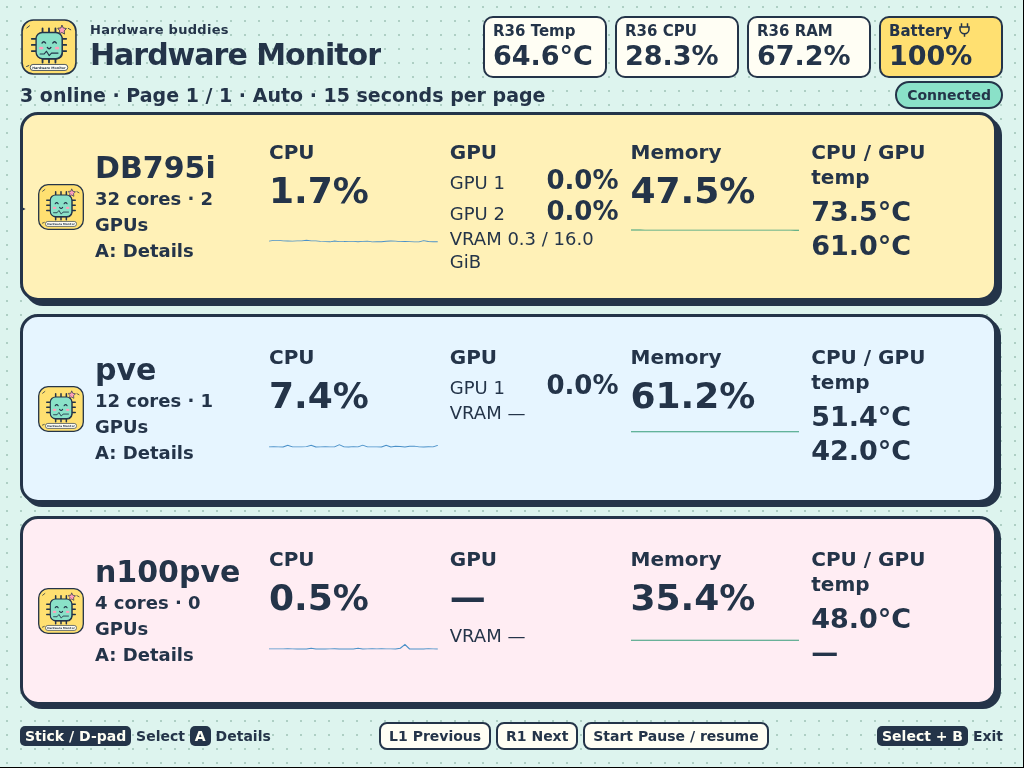
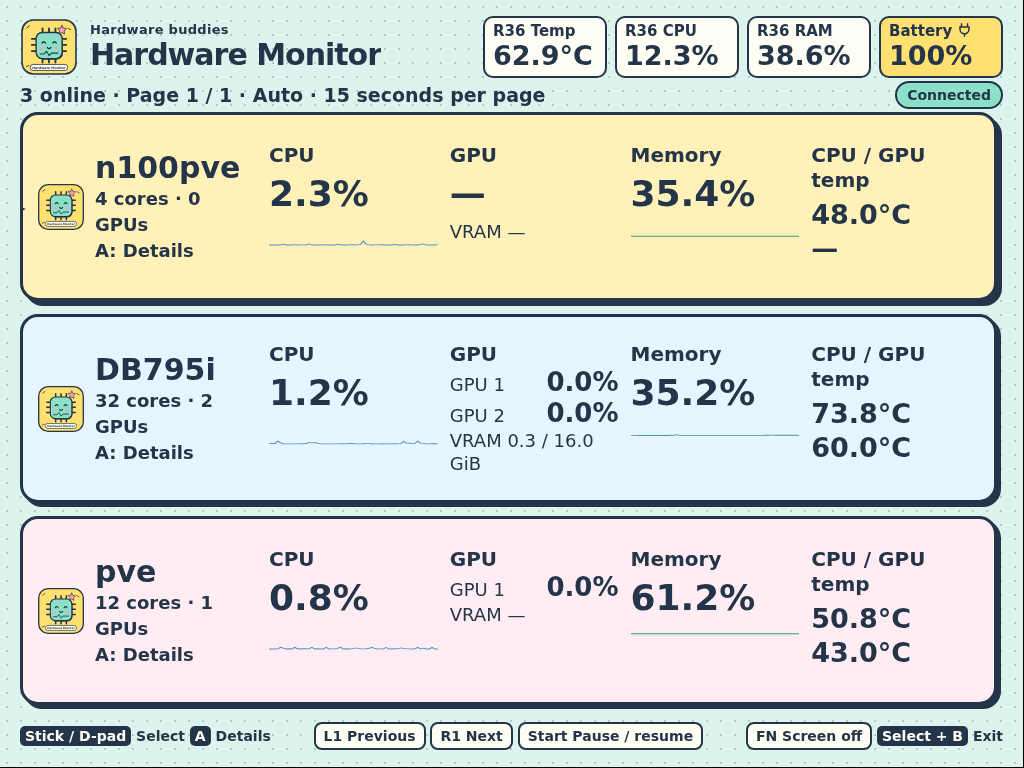
feat: add FN display sleep with DPMS and dim startup brightness

diff --git a/browser/monitor.html b/browser/monitor.html
@@ -109,7 +109,7 @@ header h1,body.device-summary h1{max-width:360px;font-size:30px}
 </style>
 <header><img src="/assets/hardware-buddy.svg" alt="Smiling chip mascot"><div><div class="brand-note">Hardware buddies</div><h1 id="title">Hardware Monitor</h1></div><aside id="device-status" aria-label="R36 handheld status"><div><small>R36 Temp</small><strong id="local-temp">—</strong></div><div><small>R36 CPU</small><strong id="local-cpu">—</strong></div><div><small>R36 RAM</small><strong id="local-memory">—</strong></div><div id="local-battery-box"><small>Battery <span id="charge-icon"></span></small><strong id="local-battery">—</strong></div></aside><span id="connection">Connecting…</span></header>
 <div id="summary"></div><main id="main"></main>
-<footer><span id="help"><kbd>Stick / D-pad</kbd> Select <kbd>A</kbd> Details <kbd>B</kbd> Back</span><span><button onclick="control('previous')">L1 Previous</button> <button onclick="control('next')">R1 Next</button> <button onclick="control('toggle')">Start Pause / resume</button></span><span><kbd>Select + B</kbd> Exit</span></footer>
+<footer><span id="help"><kbd>Stick / D-pad</kbd> Select <kbd>A</kbd> Details <kbd>B</kbd> Back</span><span><button onclick="control('previous')">L1 Previous</button> <button onclick="control('next')">R1 Next</button> <button onclick="control('toggle')">Start Pause / resume</button></span><span><button id="screen-button" onclick="control('screen')" aria-label="Turn screen off; press FN to wake">FN Screen off</button> <kbd>Select + B</kbd> Exit</span></footer>
 <script>
 const esc=v=>String(v??'—').replace(/[&<>"']/g,c=>({'&':'&amp;','<':'&lt;','>':'&gt;','"':'&quot;',"'":'&#39;'}[c]));
 const numeric=v=>typeof v==='number'&&Number.isFinite(v);
@@ -184,6 +184,7 @@ function render(s){
  document.getElementById('local-battery-box').setAttribute('aria-label','R36 battery: '+label);
  document.getElementById('charge-icon').innerHTML=charging?'<svg viewBox="0 0 16 20" role="img" aria-label="Charging"><path d="M9 0 1 11h6l-1 9 9-12H9z" fill="currentColor"/></svg>':plugged?'<svg viewBox="0 0 20 20" role="img" aria-label="'+label+'"><path d="M6 1v5m8-5v5M4 6h12v3a6 6 0 0 1-12 0zM10 15v4" fill="none" stroke="currentColor" stroke-width="2"/></svg>':'';
 
+ document.getElementById('screen-button').textContent=s.screen_off?'FN Wake':'FN Screen off';
  document.body.classList.toggle('device-summary',Boolean(s.detail&&!s.focus));
  document.getElementById('connection').textContent=s.connection;
  document.getElementById('connection').className=s.connection==='Connected'?'':'error';
@@ -203,6 +204,6 @@ async function update(){if(updating)return;updating=true;try{let r=await fetch('
 async function control(action){await fetch('/control',{method:'POST',headers:{'Content-Type':'application/json'},body:JSON.stringify({action})})}
 document.getElementById('main').addEventListener('click',e=>{let panel=e.target.closest('[data-section]');if(panel)control('focus:'+panel.dataset.section)});
 const events=new EventSource('/events');events.onmessage=e=>render(JSON.parse(e.data));events.onerror=lost;
-document.addEventListener('keydown',e=>{const actions={ArrowUp:'up',ArrowDown:'down',ArrowLeft:'left',ArrowRight:'right',Enter:'detail',Backspace:'back',Escape:'back',PageUp:'previous',PageDown:'next',' ':'toggle'};if(actions[e.key]){e.preventDefault();const panel=e.target.closest('[data-section]');control(e.key==='Enter'&&panel?'focus:'+panel.dataset.section:actions[e.key])}});
+document.addEventListener('keydown',e=>{if(e.target.closest('button')&&(e.key==='Enter'||e.key===' '))return;const actions={ArrowUp:'up',ArrowDown:'down',ArrowLeft:'left',ArrowRight:'right',Enter:'detail',Backspace:'back',Escape:'back',PageUp:'previous',PageDown:'next',' ':'toggle',f:'screen',F:'screen'};if(actions[e.key]){e.preventDefault();const panel=e.target.closest('[data-section]');control(e.key==='Enter'&&panel?'focus:'+panel.dataset.section:actions[e.key])}});
 update();
 </script></html>

diff --git a/browser/monitor.py b/browser/monitor.py
@@ -5,7 +5,9 @@ import json
 import math
 import os
 import select
+import signal
 import struct
+import subprocess
 import threading
 import time
 from collections import deque
@@ -14,7 +16,7 @@ from pathlib import Path
 
 ROOT = Path(__file__).resolve().parent
 SECTIONS = ('cpu', 'gpu', 'memory', 'network', 'disks', 'temperatures', 'history')
-BUTTONS = {305: 'detail', 304: 'back', 705: 'toggle', 310: 'previous',
+BUTTONS = {708: 'screen', 305: 'detail', 304: 'back', 705: 'toggle', 310: 'previous',
            311: 'next', 544: 'up', 545: 'down', 546: 'left', 547: 'right'}
 
 
@@ -115,6 +117,53 @@ class LocalStatus:
         return data
 
 
+class Screen:
+    """Manual backlight toggle; retain the user's game-menu brightness on exit."""
+    def __init__(self, directory=Path('/sys/class/backlight'), brightness=16):
+        self.path = next(iter(sorted(Path(directory).glob('*/brightness'))), None)
+        if self.path is None:
+            raise OSError('No backlight brightness control found')
+        self.original = int(self.path.read_text())
+        maximum = int(self.path.with_name('max_brightness').read_text())
+        # ponytail: visibility differs per panel; tune R36_MONITOR_BRIGHTNESS if 16 is too dim.
+        self.dim = max(1, min(maximum, int(brightness)))
+        self.asleep = False
+        self.dpms_off = False
+
+    @staticmethod
+    def power(mode):
+        try:
+            subprocess.run(['xset', 'dpms', 'force', mode], check=True, timeout=3,
+                           stdout=subprocess.DEVNULL, stderr=subprocess.DEVNULL)
+        except (OSError, subprocess.SubprocessError) as error:
+            raise OSError('DPMS display power command failed') from error
+
+    def enter(self):
+        self.path.write_text(str(self.dim))
+
+    def toggle(self):
+        if self.asleep:
+            if self.dpms_off:
+                self.power('on')
+            self.path.write_text(str(self.dim))
+            self.dpms_off = self.asleep = False
+        else:
+            self.path.write_text('0')
+            try:
+                self.power('off')
+                self.dpms_off = True
+            except OSError:
+                print('DPMS unavailable; screen uses backlight-only sleep.', flush=True)
+            self.asleep = True
+
+    def restore(self):
+        try:
+            if self.dpms_off:
+                self.power('on')
+        finally:
+            self.path.write_text(str(self.original))
+
+
 class Monitor:
     def __init__(self):
         self.lock = threading.RLock()
@@ -132,6 +181,7 @@ class Monitor:
         self.connection = 'Not configured'
         self.bad_messages = 0
         self.device = LocalStatus()
+        self.screen = None
 
     def receive(self, topic, payload, retained=False, now=None):
         now = time.monotonic() if now is None else now
@@ -193,6 +243,18 @@ class Monitor:
     def action(self, action, now=None):
         now = time.monotonic() if now is None else now
         with self.lock:
+            if action == 'screen':
+                if self.screen is not None:
+                    try:
+                        self.screen.toggle()
+                    except OSError as error:
+                        print(str(error), flush=True)
+                        return  # Keep FN available to retry a failed wake command.
+                    self.version += 1
+                    self.changed.notify_all()
+                return
+            if self.screen is not None and self.screen.asleep:
+                return
             self.tick(now)
             order = list(self.hosts)
             if action in ('left', 'right') and (self.detail is None or self.focus is not None):
@@ -259,6 +321,7 @@ class Monitor:
             page = order.index(self.selected) // 3 if order else 0
             visible = [self.detail] if self.detail else order[page * 3:page * 3 + 3]
             return {'device': self.device.sample(), 'connection': self.connection, 'paused': self.paused, 'detail': self.detail,
+                    'screen_off': bool(self.screen and self.screen.asleep),
                     'focus': self.focus, 'panel': SECTIONS[self.panel], 'item_page': self.item_page,
                     'selected': self.selected, 'page': page + 1, 'pages': max(1, (len(order) + 2) // 3),
                     'count': len(order), 'bad_messages': self.bad_messages,
@@ -357,6 +420,8 @@ def controls(state, server):
                         limits[axis], initial[axis] = (low, high), value
                 except OSError:
                     pass
+            # Own the gamepad while monitoring so FN combinations cannot change global brightness.
+            fcntl.ioctl(stream.fileno(), 0x40044590, 1)  # EVIOCGRAB; released when the stream closes.
             stick = StickNavigation(limits)
             for axis, value in initial.items():
                 stick.update(axis, value)
@@ -459,13 +524,20 @@ def handler(state):
 
 
 if __name__ == '__main__':
+    def stop(*_):
+        raise SystemExit(0)
+    signal.signal(signal.SIGTERM, stop)
     state = Monitor()
-    client = mqtt_start(state)
+    state.screen = Screen(brightness=os.environ.get('R36_MONITOR_BRIGHTNESS', '16'))
+    client = None
     try:
+        state.screen.enter()
+        client = mqtt_start(state)
         with ThreadingHTTPServer(('127.0.0.1', 8766), handler(state)) as server:
             threading.Thread(target=controls, args=(state, server), daemon=True).start()
             server.serve_forever()
     finally:
+        state.screen.restore()
         if client:
             client.disconnect()
             client.loop_stop()

diff --git a/browser/test_monitor.py b/browser/test_monitor.py
@@ -155,3 +155,37 @@ assert state.snapshot()['item_page'] == 0 and state.focus == 'memory'
 state.action('down')
 assert state.snapshot()['item_page'] == 0
 print('PASS: metric item paging, reverse paging, reset when changing metric, no scrolling')
+
+# The display goes completely dark only on request, then restores the dim level.
+from monitor import Screen, BUTTONS
+from unittest.mock import patch
+with TemporaryDirectory() as directory, patch('monitor.subprocess.run') as dpms:
+    panel=Path(directory)/'panel';panel.mkdir()
+    (panel/'brightness').write_text('200');(panel/'max_brightness').write_text('255')
+    screen=Screen(directory,16);screen.enter()
+    assert (panel/'brightness').read_text()=='16'
+    state=Monitor();state.screen=screen
+    assert BUTTONS[708]=='screen' and 307 not in BUTTONS
+    state.action('screen')
+    assert state.snapshot()['screen_off'] and (panel/'brightness').read_text()=='0'
+    version=state.version;state.action('down');assert state.version==version
+    state.action('screen')
+    assert not state.snapshot()['screen_off'] and (panel/'brightness').read_text()=='16'
+    assert [call.args[0][-1] for call in dpms.call_args_list]==['off','on']
+    state.action('screen');dpms.side_effect=OSError('display unavailable')
+    state.action('screen');assert screen.asleep  # A failed wake stays retryable.
+    dpms.side_effect=None;state.action('screen');assert not screen.asleep
+    dpms.side_effect=OSError('DPMS unsupported');state.action('screen')
+    assert screen.asleep and not screen.dpms_off
+    state.action('screen');assert not screen.asleep
+    dpms.side_effect=None
+    state.action('screen');screen.restore()
+    assert dpms.call_args.args[0][-1]=='on' and (panel/'brightness').read_text()=='200'
+    (panel/'brightness').write_text('0');dpms.side_effect=OSError('X already closed')
+    try:screen.restore()
+    except OSError:pass
+    else:raise AssertionError('Expected DPMS error')
+    assert (panel/'brightness').read_text()=='200'
+    dpms.side_effect=None
+    assert Screen(directory,0).dim==1 and Screen(directory,999).dim==255
+print('PASS: FN sleep/wake, nonzero dim brightness, sleeping input ignored, exit brightness restored')

diff --git a/browser/test_awake.py b/browser/test_awake.py
@@ -6,11 +6,13 @@ from pathlib import Path
 settings = subprocess.check_output(['xset', 'q'], env=dict(__import__('os').environ, DISPLAY=':0'), text=True)
 assert re.search(r'timeout:\s+0\s+cycle:', settings), 'Screen saver timer enabled'
 assert 'prefer blanking:  no' in settings, 'Blanking enabled'
-assert 'DPMS is Disabled' in settings, 'Display power saving enabled'
+assert 'DPMS is Enabled' in settings, 'Manual DPMS unavailable'
+assert re.search(r'Standby:\s+0\s+Suspend:\s+0\s+Off:\s+0', settings), 'Automatic DPMS timer enabled'
+assert 'Monitor is On' in settings, 'Monitor is manually sleeping'
 locks = subprocess.check_output(['systemd-inhibit', '--list', '--no-pager'], text=True)
 assert 'HardwareMonitor' in locks and 'sleep' in locks and 'idle' in locks, 'Monitoring sleep/idle inhibitor missing'
 backlight = Path('/sys/class/backlight/backlight')
 assert int((backlight / 'brightness').read_text()) > 0, 'Backlight is off'
 if (backlight / 'bl_power').exists():
     assert int((backlight / 'bl_power').read_text()) == 0, 'Backlight power saving enabled'
-print('PASS: no screen saver, no blanking, DPMS disabled, sleep/idle inhibited, backlight on')
+print('PASS: no screen saver, no blanking, manual DPMS enabled with all timers zero, sleep/idle inhibited, backlight on')

diff --git a/README.md b/README.md
@@ -24,6 +24,16 @@
 
 ![大字顯示 CPU、GPU、記憶體與網路、磁碟流量](browser/comic-detail-tested.png)
 
+### 低亮度與手動關閉螢幕
+
+進入 Hardware Monitor 時，背光設為 16 / 255 的低亮度，保留非零背光。實際可讀性需要使用者在掌機上確認；不同面板可用 `R36_MONITOR_BRIGHTNESS` 環境變數調整，範圍限制為 1 到面板上限。
+
+按機身 FN 功能鍵透過 DPMS 關閉顯示並關背光，再按同一鍵恢復顯示與低亮度畫面；頁面右下角也有 FN 按鈕。自動休眠計時為 0，只有手動按鍵才會關閉顯示。系統與 MQTT 接收繼續執行，其他導覽按鍵在黑屏時不切頁。正常退出監控或啟動腳本結束時恢復顯示與原本亮度。
+
+在這台 R36 MAX 2 上，DPMS 關閉時 DRM 顯示狀態為 `Off`、背光電源狀態為 `4`，喚醒後恢復 `On` 與 `0`。這是驅動回報的顯示關閉狀態，未量測面板各供電電路或實際省電量。若 DPMS 關閉命令失敗，程式退回只關背光並在 `page.log` 記錄原因；喚醒失敗時保持休眠狀態，仍可再按 FN 重試。
+
+監控程式執行期間接管遊戲手把輸入，避免系統的 FN 加方向鍵快捷鍵同時改變亮度。退出後系統快捷鍵恢復；獨立音量鍵和電源鍵保留系統功能。
+
 ### 點開 CPU 或 GPU，查看單項圖形資訊
 
 在設備詳細頁用方向鍵選擇資訊卡，按 A 開啟單項詳細頁。也可以點擊卡片。CPU 顯示整體負載、最忙四核心與溫度趨勢；GPU 逐張顯示負載、VRAM 和趨勢圖。記憶體、網路、磁碟、溫度與活動趨勢同樣可以各自開啟。
@@ -46,7 +56,7 @@
 
 採集程式在被監控電腦上執行，掌機負責接收與顯示。已有 MQTT broker 的使用者可以直接接上原本的資料流；這份專案不要求另建一套 broker。
 
-漫畫風的晶片角色、色塊儀表和使用量條，讓資訊容易辨識。監控開啟期間保持常亮、阻止閒置休眠，並從啟動時隱藏滑鼠游標，全程使用掌機按鍵操作。
+漫畫風的晶片角色、色塊儀表和使用量條，讓資訊容易辨識。監控開啟期間不會自動休眠，可用 FN 手動關閉顯示，並從啟動時隱藏滑鼠游標，全程使用掌機按鍵操作。
 
 ## 按鍵操作
 
@@ -55,6 +65,7 @@
 | 按鍵 | 操作 |
 | --- | --- |
 | 方向鍵／左右類比搖桿 | 上下選取電腦，左右翻頁；設備詳細頁依卡片位置四方向選取；單項頁左右切換類別、上下切換項目頁 |
+| FN | 手動 DPMS 關閉顯示與背光；再按 FN 恢復低亮度畫面，MQTT 持續更新 |
 | A | 進入設備詳細頁，再進入選定資訊卡的單項頁；輪播保持暫停 |
 | B | 逐層返回，保持暫停 |
 | L1／R1 | 前後翻頁；單項頁中切換資訊類別；輪播保持暫停 |
@@ -124,7 +135,7 @@ bash browser/install.sh
 
 可把以下文字交給下一個 AI；補上掌機 IP 及首次安裝的私有 MQTT 設定檔位置。
 
-> 請在 R36 MAX 2 上安裝 KarlSideProjects/r36max2-hwmonitor。先讀 README 的安裝流程與 browser/install.sh。透過 SSH 以 ark 登入掌機，確認是 Debian 13 ARM64 的 dArkOS4Clone，並且有 /roms/ports、/dev/dri/card0、/dev/input/event2 與內建 zram-swap.service。使用既有乾淨 checkout，或下載專案；不要覆蓋未提交修改。退出正在執行的遊戲或監控。執行 sudo -v 後執行 bash browser/install.sh；首次需要 MQTT 設定時使用 --config 指向掌機上的私有 JSON 檔。已有設定就保留，不要輸出帳密。記錄備份路徑，執行 --check，從 Ports 開啟 Hardware Monitor，再檢查 /status 的連線和主機資料、圖示、按鍵、常亮及退出回選單。若 SSH 或 MQTT 資訊不足，只詢問缺少的資訊。報告通過哪些檢查及未驗證項目；不要自行刷機或更改 broker／採集端。
+> 請在 R36 MAX 2 上安裝 KarlSideProjects/r36max2-hwmonitor。先讀 README 的安裝流程與 browser/install.sh。透過 SSH 以 ark 登入掌機，確認是 Debian 13 ARM64 的 dArkOS4Clone，並且有 /roms/ports、/dev/dri/card0、/dev/input/event2 與內建 zram-swap.service。使用既有乾淨 checkout，或下載專案；不要覆蓋未提交修改。退出正在執行的遊戲或監控。執行 sudo -v 後執行 bash browser/install.sh；首次需要 MQTT 設定時使用 --config 指向掌機上的私有 JSON 檔。已有設定就保留，不要輸出帳密。記錄備份路徑，執行 --check，從 Ports 開啟 Hardware Monitor，再檢查 /status 的連線和主機資料、圖示、按鍵、不自動休眠、FN 關閉與喚醒，以及退出回選單。若 SSH 或 MQTT 資訊不足，只詢問缺少的資訊。報告通過哪些檢查及未驗證項目；不要自行刷機或更改 broker／採集端。
 
 ### 驗證安裝
 
@@ -145,7 +156,7 @@ assert s['connection'] == 'Connected' and s['count'] > 0
 PY_CHECK
 ```
 
-以方向鍵或類比搖桿選主機，A 開詳細頁，B 返回，Select + B 退出。畫面應保持常亮且沒有滑鼠游標。`Device Info` 入口可查看掌機資訊。
+以方向鍵或類比搖桿選主機，A 開詳細頁，B 返回，Select + B 退出。畫面不會自動休眠且沒有滑鼠游標；按 FN 關閉顯示，再按 FN 恢復，確認 MQTT 保持連線。`Device Info` 入口可查看掌機資訊。
 
 腳本已在目前掌機上測試既有安裝的更新與重複執行。全新系統的套件安裝與下列還原流程仍屬待實機驗證；首次執行者需記錄結果。
 
